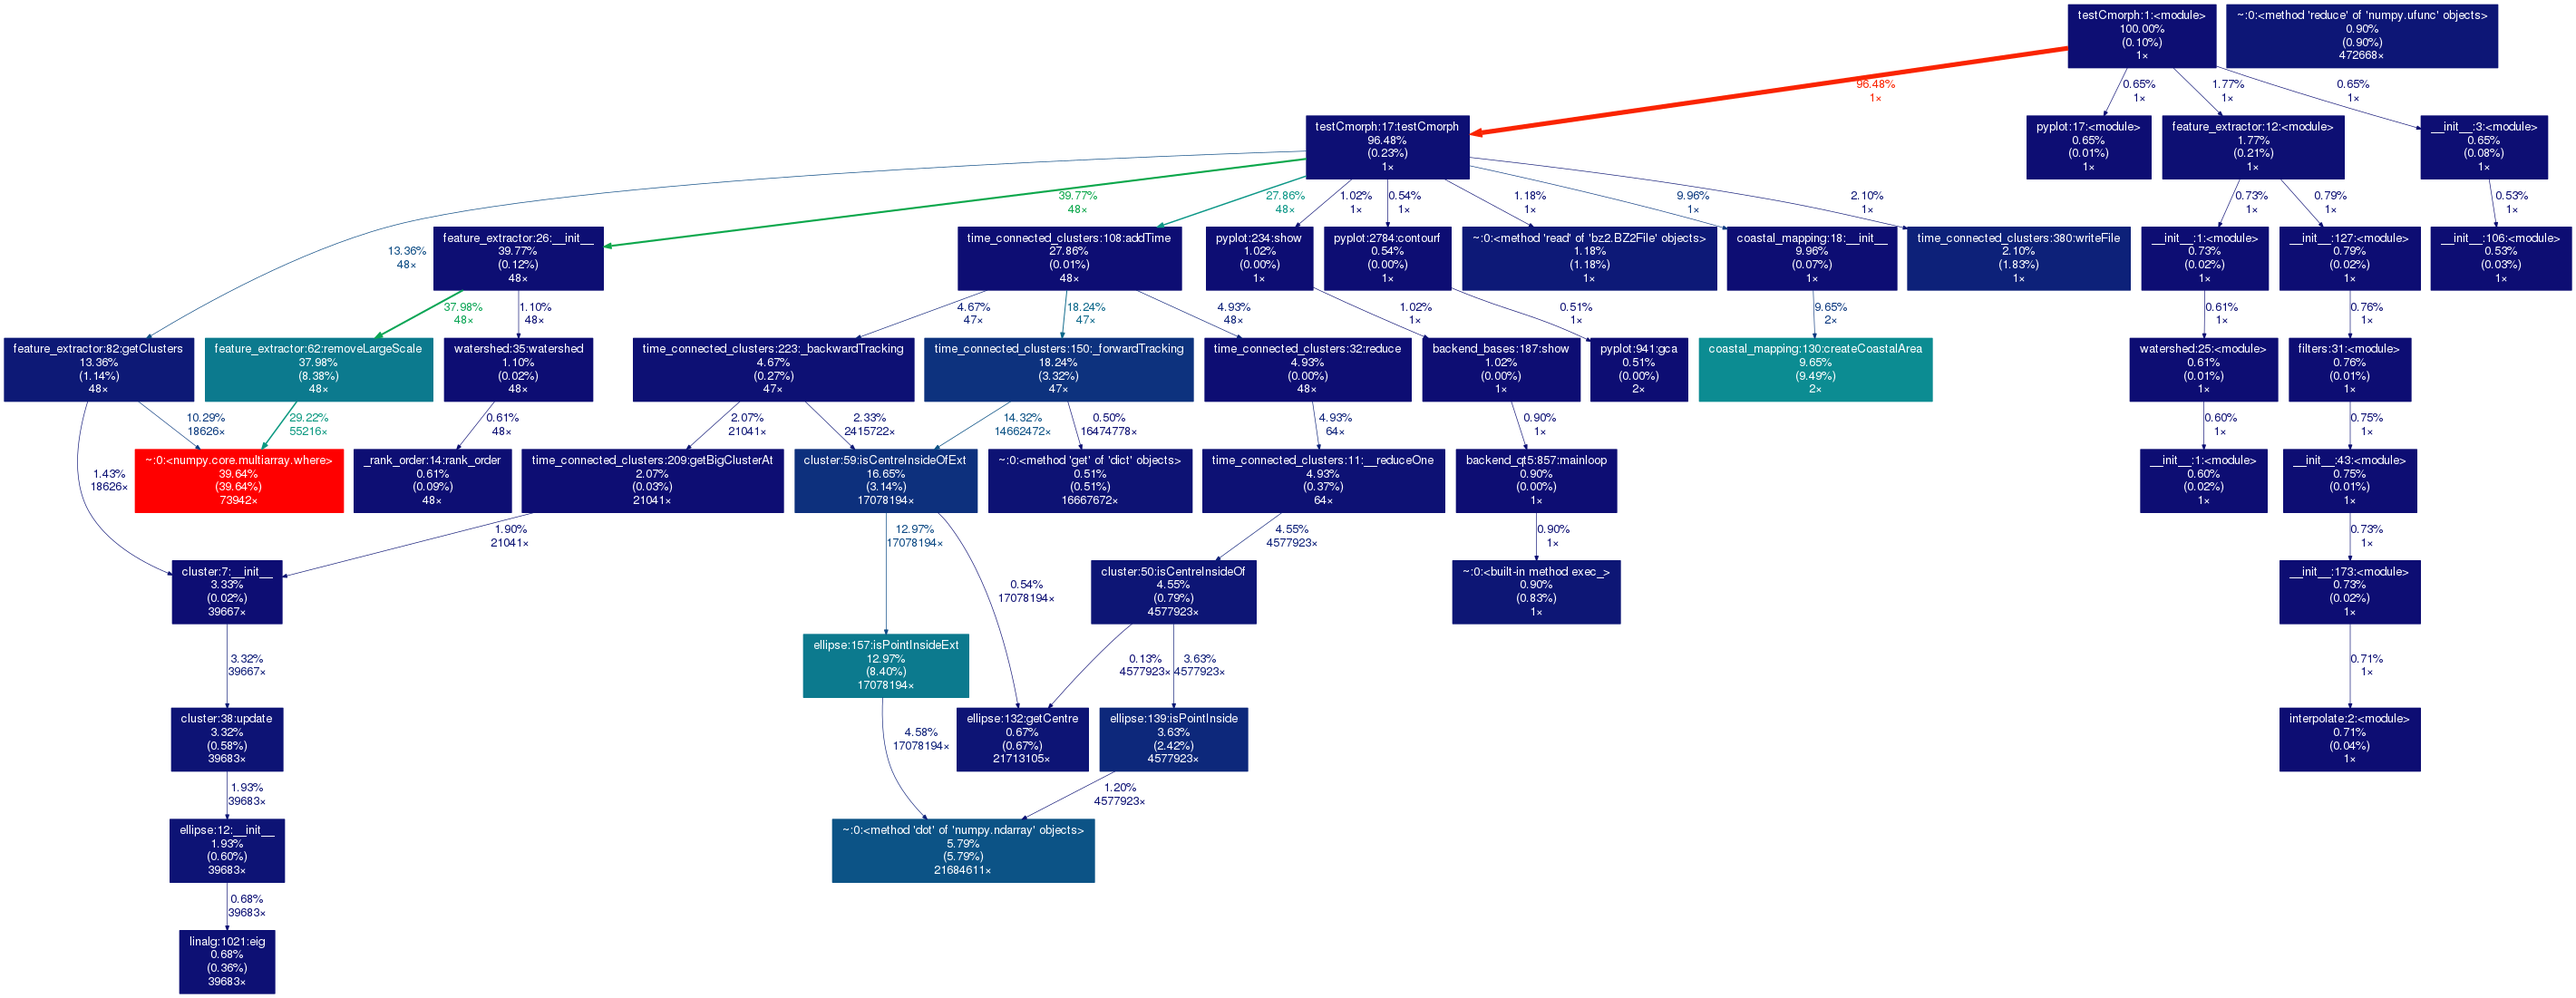
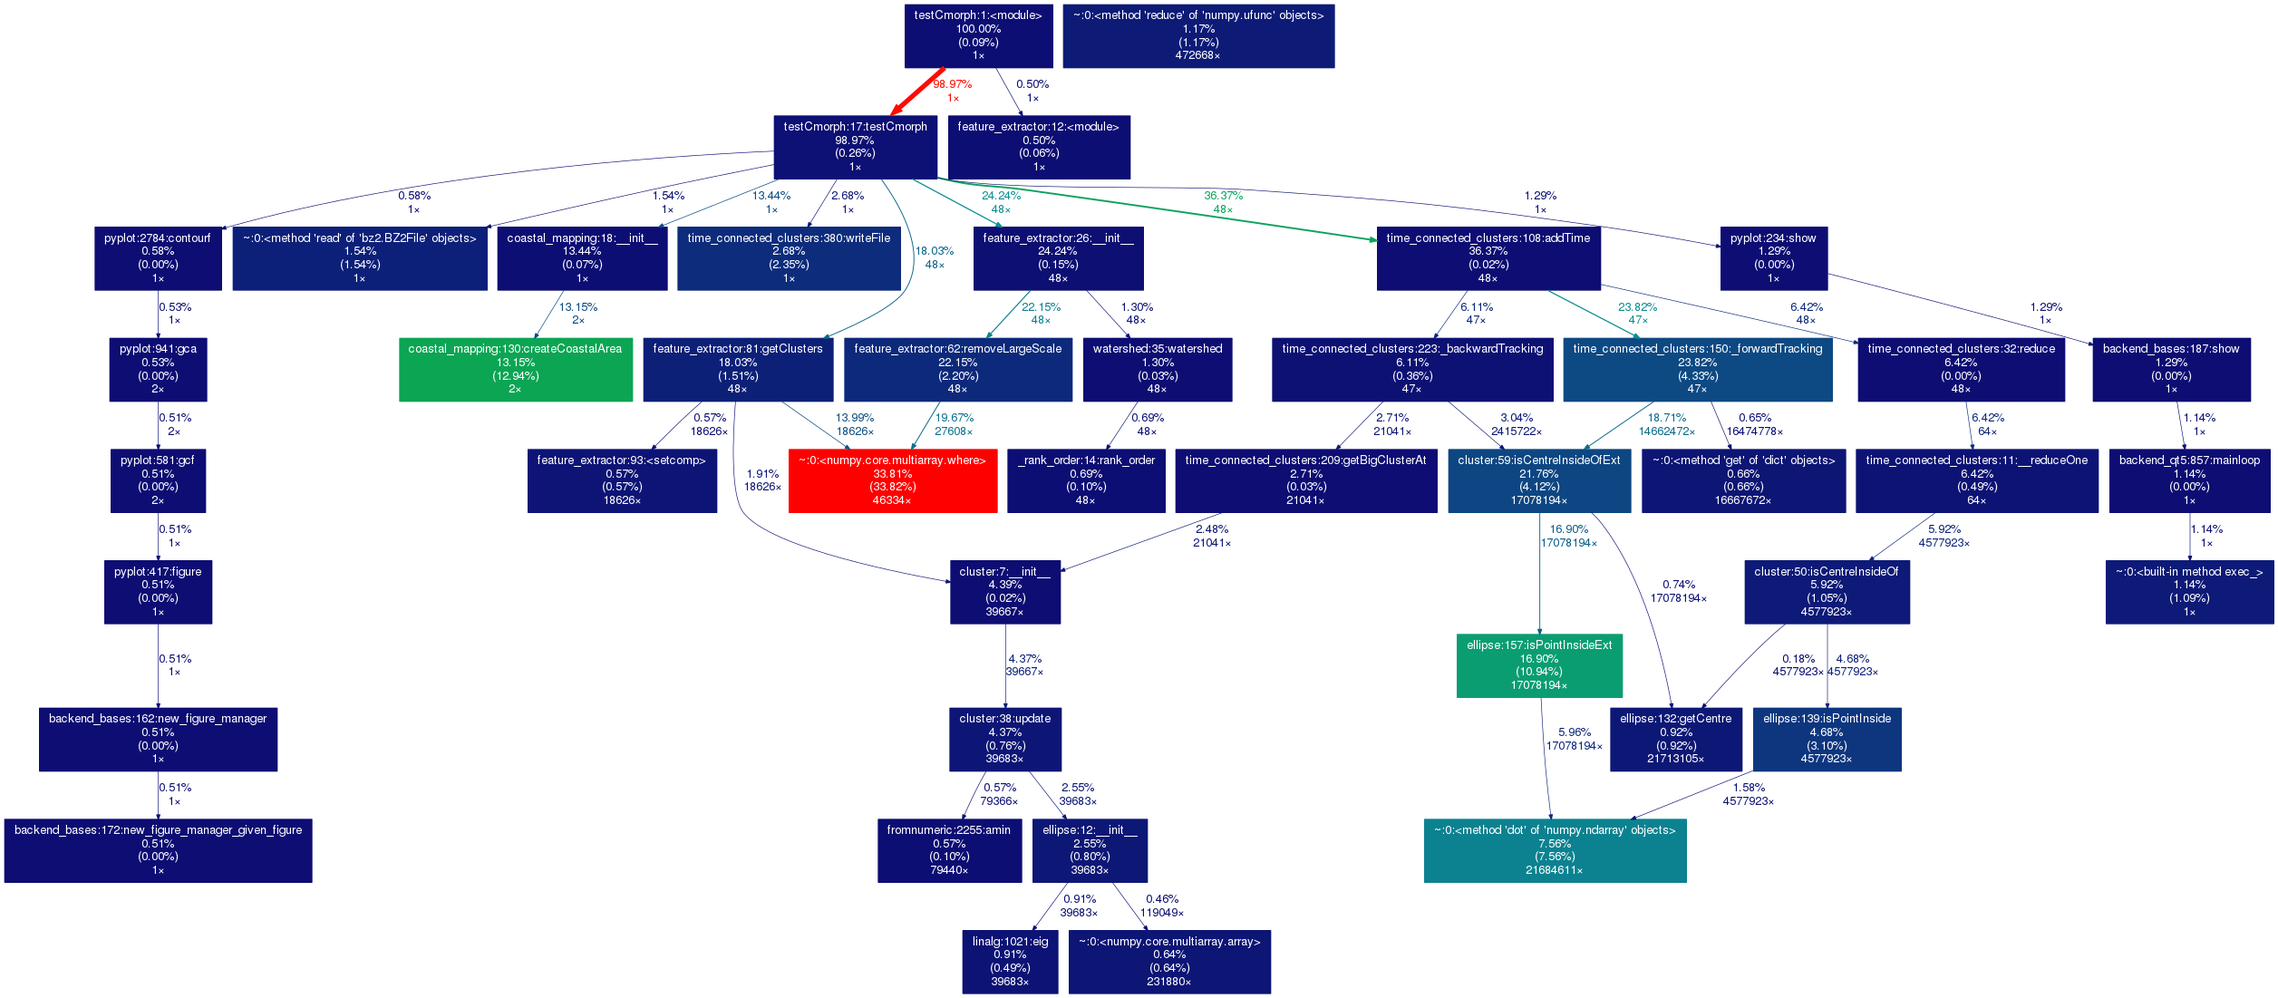
using one where gives the fastest time

diff --git a/py/feature_extractor.py b/py/feature_extractor.py
@@ -64,16 +64,16 @@ class FeatureExtractor:
         Remove clusters outside of the mask
         """
         new_label = numpy.zeros_like(self.labels)
-        labeled = numpy.zeros_like(self.mask)
-        nb=1
+        nb = 1
         for label in numpy.unique(self.labels):
             # if the label is zero, we are examining the 'background'
             if label == 0:
                 continue
-            labeled *= 0 # initialize
+            # get the indices of this feature
             inds = numpy.where(self.labels == label)
-            labeled[inds] = 1
-            if self.mask[numpy.where(labeled==1)].mean() >= self.frac:
+            # number of cells for this feature
+            num_label_elems = len(inds[0])
+            if self.mask[inds].sum() >= self.frac * num_label_elems:
                 new_label[inds] = nb
                 nb += 1
         return new_label
